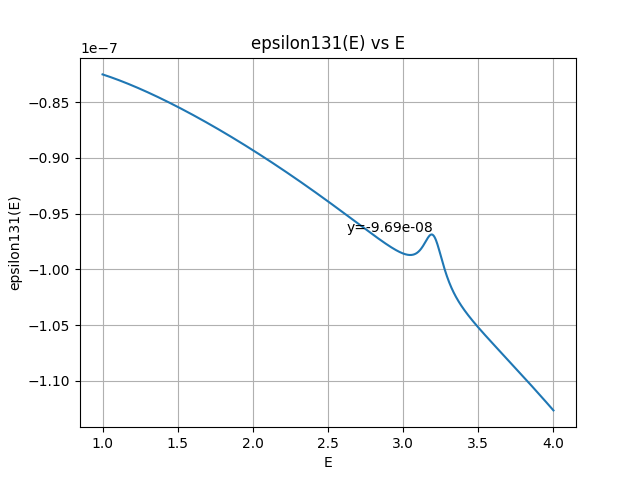
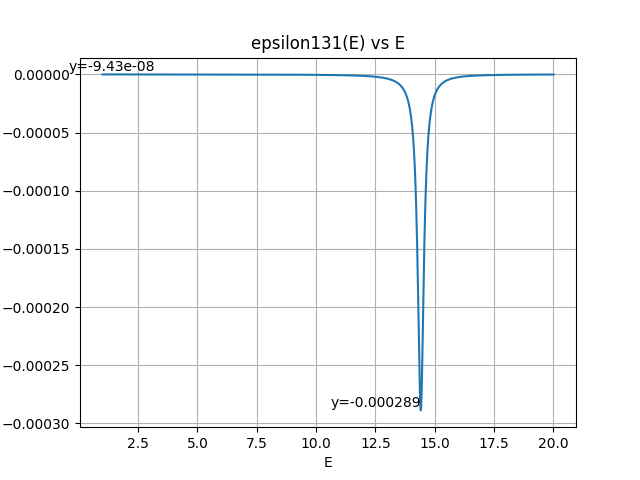
com

diff --git a/graphsigAB129.py b/graphsigAB129.py
@@ -5,7 +5,8 @@ import pandas as pd
 import ReImB
 import matplotlib.pyplot as plt
 
-E_values = np.linspace(2.5, 20, 1000)  
+E_values = np.linspace(2.5, 20, 1000)
+#E_values = np.linspace(0.001, 0.2, 1000)  #0.1eVと0.02eVの計算
 
 sigmaA_values = [ReImB.sigmaA129(E) for E in E_values]
 
@@ -22,9 +23,16 @@ plt.legend()
 plt.yscale('log')  
 
 closest_index = np.argmin(np.abs(E_values - 9.57))
+#closest_index_01 = np.argmin(np.abs(E_values - 0.1))
+#closest_index_02 = np.argmin(np.abs(E_values - 0.02))
 
 plt.text(9.57 + 0.1, sigmaA_values[closest_index], f'{sigmaA_values[closest_index]:.3g}', fontsize=10, ha='left', va='bottom')
 plt.text(9.57 + 0.1, sigmaB_values[closest_index], f'{sigmaB_values[closest_index]:.3g}', fontsize=10, ha='left', va='bottom')
+#plt.text(0.1, sigmaA_values[closest_index_01], f'{sigmaA_values[closest_index_01]:.3g}', fontsize=10, ha='left', va='bottom')     #0.1eVと0.02eVの計算
+#plt.text(0.02, sigmaA_values[closest_index_02], f'{sigmaA_values[closest_index_02]:.3g}', fontsize=10, ha='left', va='bottom')    #0.1eVと0.02eVの計算
+#plt.text(0.1, sigmaB_values[closest_index_01], f'{sigmaB_values[closest_index_01]:.3g}', fontsize=10, ha='left', va='bottom')     #0.1eVと0.02eVの計算
+#plt.text(0.02, sigmaB_values[closest_index_02], f'{sigmaB_values[closest_index_02]:.3g}', fontsize=10, ha='left', va='bottom')    #0.1eVと0.02eVの計算
 
 plt.savefig('sigmaAB_129Xe.png')  
+#plt.savefig('sigmaAB_129Xe(0.02eV&0.1eV).png')    #0.1eVと0.02eVの計算
 plt.show()

diff --git a/graphsigAB131.py b/graphsigAB131.py
@@ -6,6 +6,7 @@ import ReImB
 import matplotlib.pyplot as plt
 
 E_values = np.linspace(2.5, 20, 1000)  
+#E_values = np.linspace(0.001, 0.2, 1000)  #0.1eVと0.02eVの計算
 
 sigmaA_values = [ReImB.sigmaA131(E) for E in E_values]
 
@@ -21,9 +22,16 @@ plt.legend()
   
 
 closest_index = np.argmin(np.abs(E_values - 14.41))
+#closest_index_01 = np.argmin(np.abs(E_values - 0.1))
+#closest_index_02 = np.argmin(np.abs(E_values - 0.02))
 
 plt.text(14.41 + 0.1, sigmaA_values[closest_index], f'{sigmaA_values[closest_index]:.3g}', fontsize=10, ha='left', va='bottom')
 plt.text(14.41 + 0.1, sigmaB_values[closest_index], f'{sigmaB_values[closest_index]:.3g}', fontsize=10, ha='left', va='bottom')
+#plt.text(0.1, sigmaA_values[closest_index_01], f'{sigmaA_values[closest_index_01]:.3g}', fontsize=10, ha='left', va='bottom')     #0.1eVと0.02eVの計算
+#plt.text(0.02, sigmaA_values[closest_index_02], f'{sigmaA_values[closest_index_02]:.3g}', fontsize=10, ha='left', va='bottom')    #0.1eVと0.02eVの計算
+#plt.text(0.1, sigmaB_values[closest_index_01], f'{sigmaB_values[closest_index_01]:.3g}', fontsize=10, ha='left', va='bottom')     #0.1eVと0.02eVの計算
+#plt.text(0.02, sigmaB_values[closest_index_02], f'{sigmaB_values[closest_index_02]:.3g}', fontsize=10, ha='left', va='bottom')    #0.1eVと0.02eVの計算
 
-plt.savefig('sigmaAB_131Xe.png')  
+plt.savefig('sigmaAB_131Xe.png') 
+#plt.savefig('sigmaAB_131Xe(0.02eV&0.1eV).png')    #0.1eVと0.02eVの計算
 plt.show()

diff --git a/graphep131.py b/graphep131.py
@@ -11,6 +11,7 @@ E_values = np.linspace(1, 20, 100000)
 #E_values = np.linspace(1, 4, 1000)  #E=3.0eVを見る
 
 epsilon_values = ReImB.epsilon131(E_values)
+#epsilon_values = ReImB.epsilon131_1atm(E_values)
 
 plt.plot(E_values, epsilon_values)
 plt.xlabel('E')
@@ -23,8 +24,10 @@ closest_index = np.argmin(np.abs(E_values - 3.20))
 
 plt.text(14.41, ReImB.epsilon131(14.41), f'y={ReImB.epsilon131(14.41):.3g}', ha='right', va='bottom')
 plt.text(3.20, ReImB.epsilon131(3.20), f'y={ReImB.epsilon131(3.20):.3g}', ha='right', va='bottom')
-plt.savefig('asym_131Xe.png')  
-#plt.savefig('asym100_131Xe.png')  #もし偏極率が１００なら
-#plt.savefig('asym_131Xe3.0.png')  #3.0eVにズーム
+#plt.text(14.41, ReImB.epsilon131_1atm(14.41), f'y={ReImB.epsilon131_1atm(14.41):.3g}', ha='right', va='bottom')
+#plt.text(3.20, ReImB.epsilon131_1atm(3.20), f'y={ReImB.epsilon131_1atm(3.20):.3g}', ha='right', va='bottom')
+#plt.savefig('asym_131Xe.png')  
+#plt.savefig('asym_131Xe_1atm.png') 
+plt.savefig('asym_131Xe3.0.png')  #3.0eVにズーム
 plt.show()  
 

diff --git a/graphsigB129.py b/graphsigB129.py
@@ -6,6 +6,7 @@ import ReImB
 import matplotlib.pyplot as plt
 
 E_values = np.linspace(2.5, 20, 1000)  
+#E_values = np.linspace(0.001, 0.2, 1000)  #0.1eVと0.02eVの計算
 
 sigmaB_values = [ReImB.sigmaB129(E) for E in E_values]
 
@@ -17,5 +18,14 @@ plt.grid(True)
 
 plt.yscale('log') 
 
-plt.savefig('sigmaB_129Xe.png')  
+closest_index = np.argmin(np.abs(E_values - 9.57))
+#closest_index_01 = np.argmin(np.abs(E_values - 0.1))
+#closest_index_02 = np.argmin(np.abs(E_values - 0.02))
+
+plt.text(9.57 + 0.1, sigmaB_values[closest_index], f'{sigmaB_values[closest_index]:.3g}', fontsize=10, ha='left', va='bottom')
+#plt.text(0.1, sigmaB_values[closest_index_01], f'{sigmaB_values[closest_index_01]:.3g}', fontsize=10, ha='left', va='bottom')     #0.1eVと0.02eVの計算
+#plt.text(0.02, sigmaB_values[closest_index_02], f'{sigmaB_values[closest_index_02]:.3g}', fontsize=10, ha='left', va='bottom')    #0.1eVと0.02eVの計算
+
+plt.savefig('sigmaB_129Xe.png')
+#plt.savefig('sigmaB_129Xe(0.02eV&0.1eV).png')    #0.1eVと0.02eVの計算
 plt.show()

diff --git a/graphsigB131.py b/graphsigB131.py
@@ -6,6 +6,7 @@ import ReImB
 import matplotlib.pyplot as plt
 
 E_values = np.linspace(1, 20, 1000) 
+#E_values = np.linspace(0.001, 0.2, 1000)  #0.1eVと0.02eVの計算
 
 sigmaB_values = [ReImB.sigmaB131(E) for E in E_values]
 
@@ -16,8 +17,13 @@ plt.title('sigmaB131')
 plt.grid(True)  
 
 closest_index = np.argmin(np.abs(E_values - 14.41))
+#closest_index_01 = np.argmin(np.abs(E_values - 0.1))
+#closest_index_02 = np.argmin(np.abs(E_values - 0.02))
 
 plt.text(14.41 + 0.1, sigmaB_values[closest_index], f'{sigmaB_values[closest_index]:.3g}', fontsize=10, ha='left', va='bottom')
+#plt.text(0.1, sigmaB_values[closest_index_01], f'{sigmaB_values[closest_index_01]:.3g}', fontsize=10, ha='left', va='bottom')     #0.1eVと0.02eVの計算
+#plt.text(0.02, sigmaB_values[closest_index_02], f'{sigmaB_values[closest_index_02]:.3g}', fontsize=10, ha='left', va='bottom')    #0.1eVと0.02eVの計算
 
 plt.savefig('sigmaB_131Xe.png')  
+#plt.savefig('sigmaB_131Xe(0.02eV&0.1eV).png')    #0.1eVと0.02eVの計算
 plt.show()

diff --git a/ReImB.py b/ReImB.py
@@ -90,6 +90,10 @@ def sigmaA129(E):
 def epsilon131(E):
     k = 0.6947*np.sqrt(E*10**3)*10**10
     return 0.17*np.tanh(4.2*10**(-4)*const131.num_131*const131.d_cell*(4*np.pi/k)*ImB_131Xe(E))
+
+def epsilon131_1atm(E):
+    k = 0.6947*np.sqrt(E*10**3)*10**10
+    return 0.17*np.tanh(0.1974*10**(-2)*const131.num_131_1atm*const131.d_cell*(4*np.pi/k)*ImB_131Xe(E))
  
 def epsilon129(E):
     k = 0.6947*np.sqrt(E*10**3)*10**10

diff --git a/const131.py b/const131.py
@@ -32,7 +32,9 @@ h_bar = 6.582119569*10**(-16) #[eV s]
 c = 2.99792458*10**8 #[m/s]
 
 p_131 = 3*0.212 #[atm]
+p_131_1atm = 1*0.212 #[atm]
 #p_131 = 300*0.84/760 #[atm] for Mike
 num_131 = (p_131*5.88*10**3*6.02*10**23)/131.3 #[m^-3]
+num_131_1atm = (p_131_1atm*5.88*10**3*6.02*10**23)/131.3 #[m^-3]
 d_cell = 5*10**(-2)
 # d_cell = 2*25.4*10**(-3) # Mike
